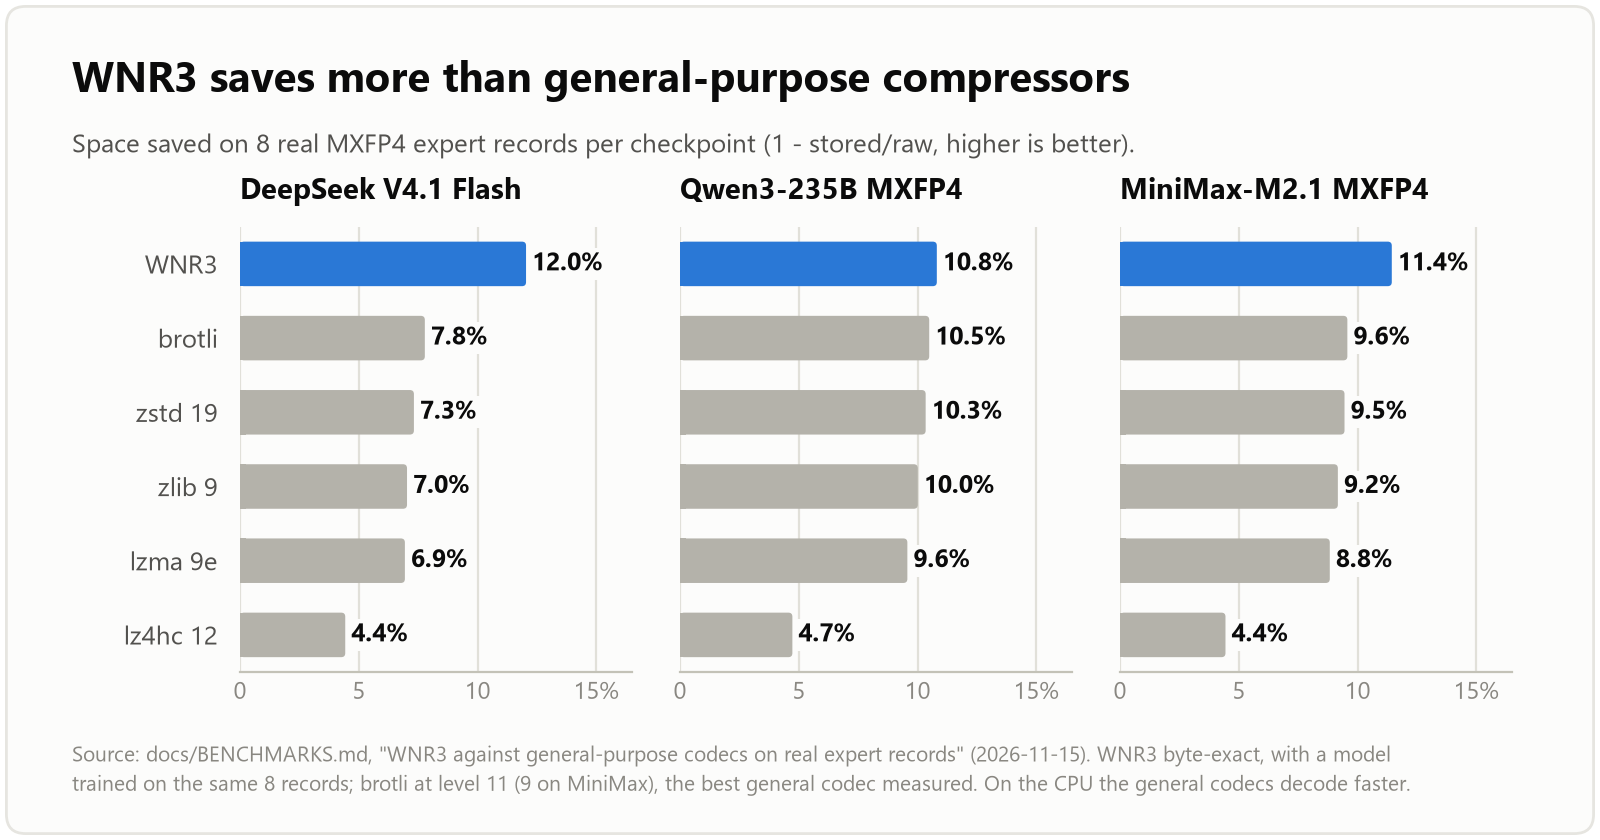
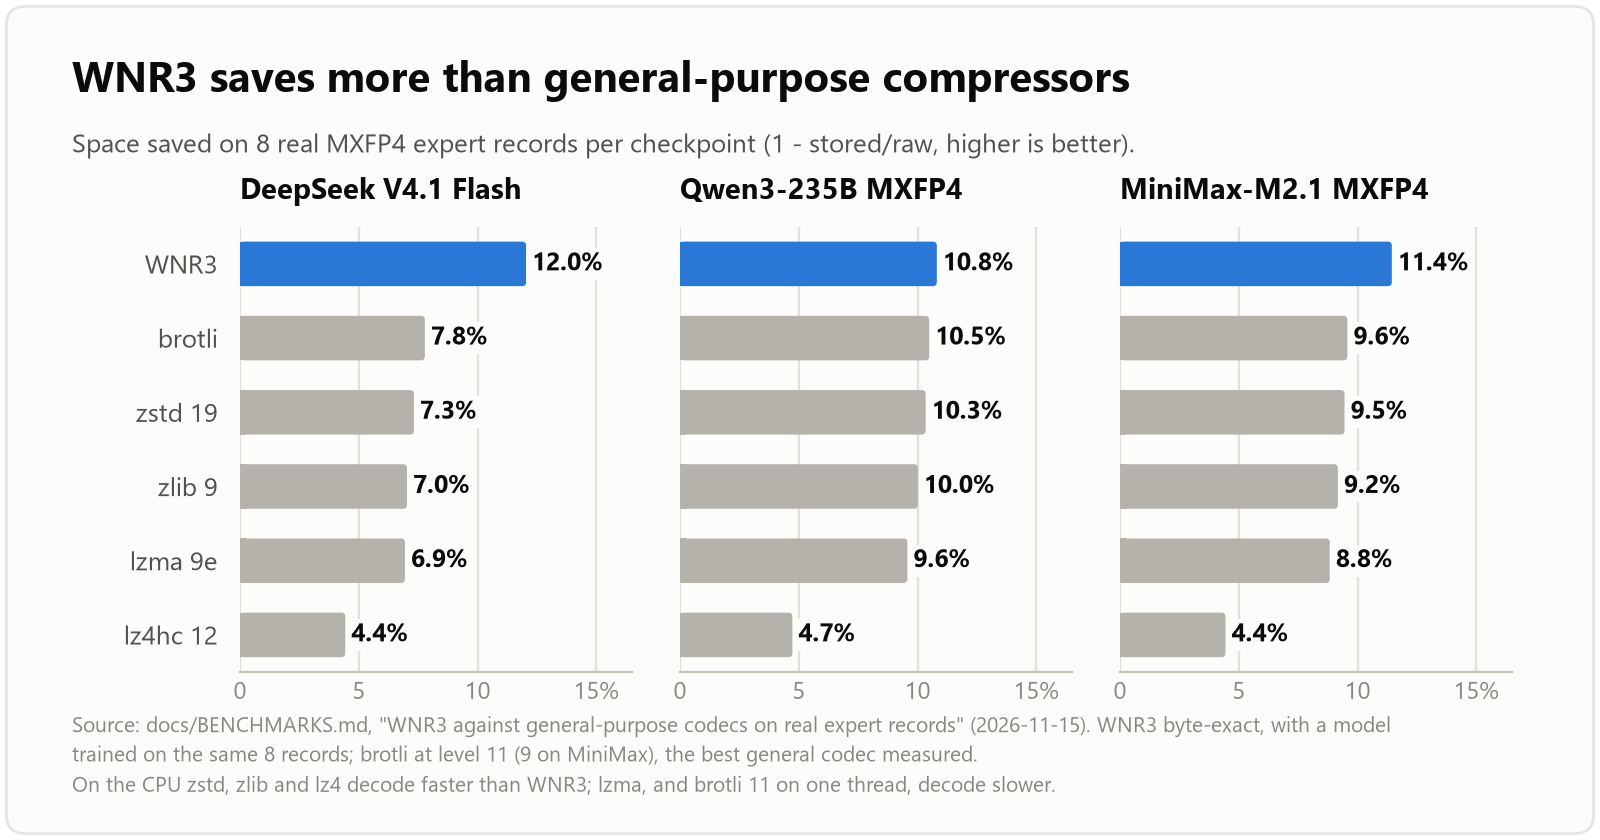
charts: footnotes after review (codec decode speeds, C reader classes, Qwen3.8 run date)

Changed region(s): [[0.0312, 0.8357, 0.875, 0.9595]]

diff --git a/scripts/make_charts.py b/scripts/make_charts.py
@@ -66,7 +66,7 @@ def chart_codecs(t):
             ax.set_yticklabels([])
     cs.footer(fig, t, 'Source: docs/BENCHMARKS.md, "WNR3 against general-purpose codecs on real expert records" '
               '(2026-11-15). WNR3 byte-exact, with a model\ntrained on the same 8 records; brotli at level 11 (9 on '
-              'MiniMax), the best general codec measured. On the CPU the general codecs decode faster.', h)
+              'MiniMax), the best general codec measured.\nOn the CPU zstd, zlib and lz4 decode faster than WNR3; lzma, and brotli 11 on one thread, decode slower.', h)
     return fig
 
 
@@ -88,7 +88,7 @@ def chart_speed(t):
     ax1.set_xticks([0, 1, 2, 3])
     ax2.set_xticks([0, 3, 6, 9, 12])
     cs.footer(fig, t, 'Source: docs/BENCHMARKS.md. V4.1: one pair, 3 prompts x 64 tokens, logits bit-identical. '
-              'Qwen3.8: 258-token prompt, one run each.\nNot comparable across the two models (different sizes, '
+              'Qwen3.8: WEX1 containers, engine of 2026-11-11, 258-token\nprompt, one run each (later builds are faster). Not comparable across the two models (different sizes, '
               'RAM budgets and prompts).', h)
     return fig
 
@@ -134,8 +134,8 @@ def chart_tests(t):
     ax2.tick_params(axis='y', labelsize=8.5)
     detail = '\n'.join(f'{k}: ' + ', '.join(sorted(jobs[k])) for k in order)
     fig.text(0.535, 0.39, detail, fontsize=7.2, color=t['ink2'], va='top', linespacing=1.6, wrap=True)
-    cs.footer(fig, t, 'Source: wex4/vectors/MANIFEST.tsv (the reason a refused file is refused, as the reference '
-              'reader reports it) and .github/workflows/ci.yml, fuzz.yml\n(jobs without a manual-run condition).', h)
+    cs.footer(fig, t, 'Source: wex4/vectors/MANIFEST.tsv (for a refused file, the first rule it breaks, as the C '
+              'reader c/wex4.h reports it) and .github/workflows/ci.yml, fuzz.yml\n(jobs without a manual-run condition).', h)
     return fig
 
 
